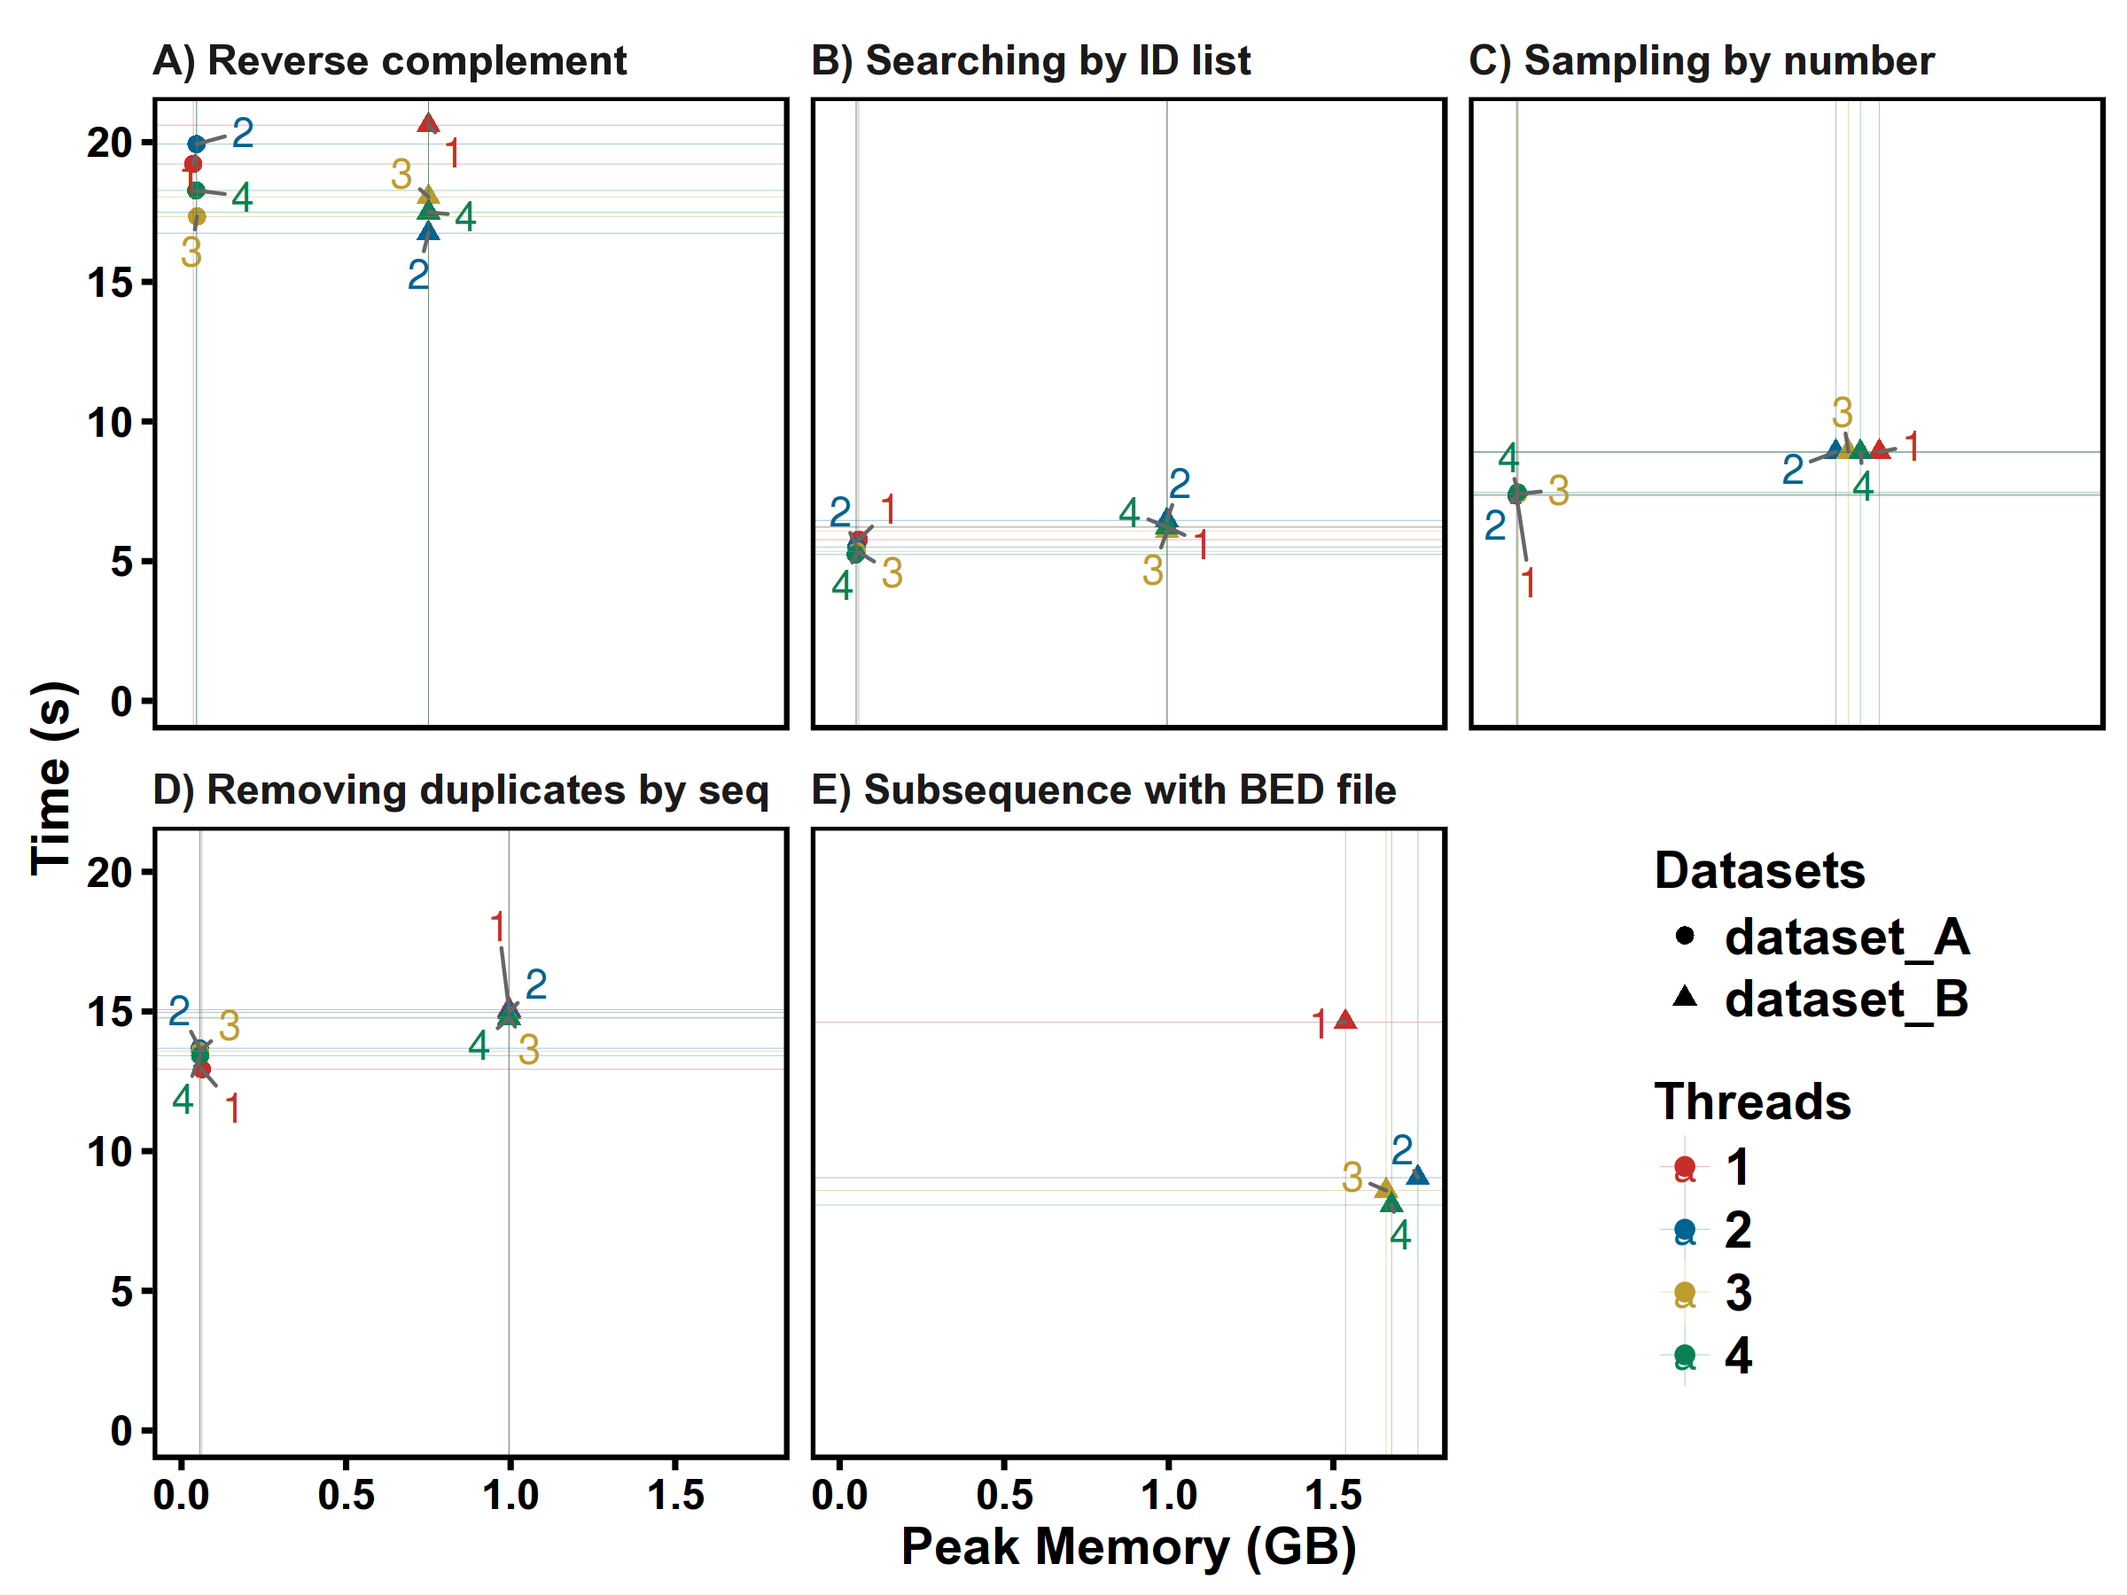
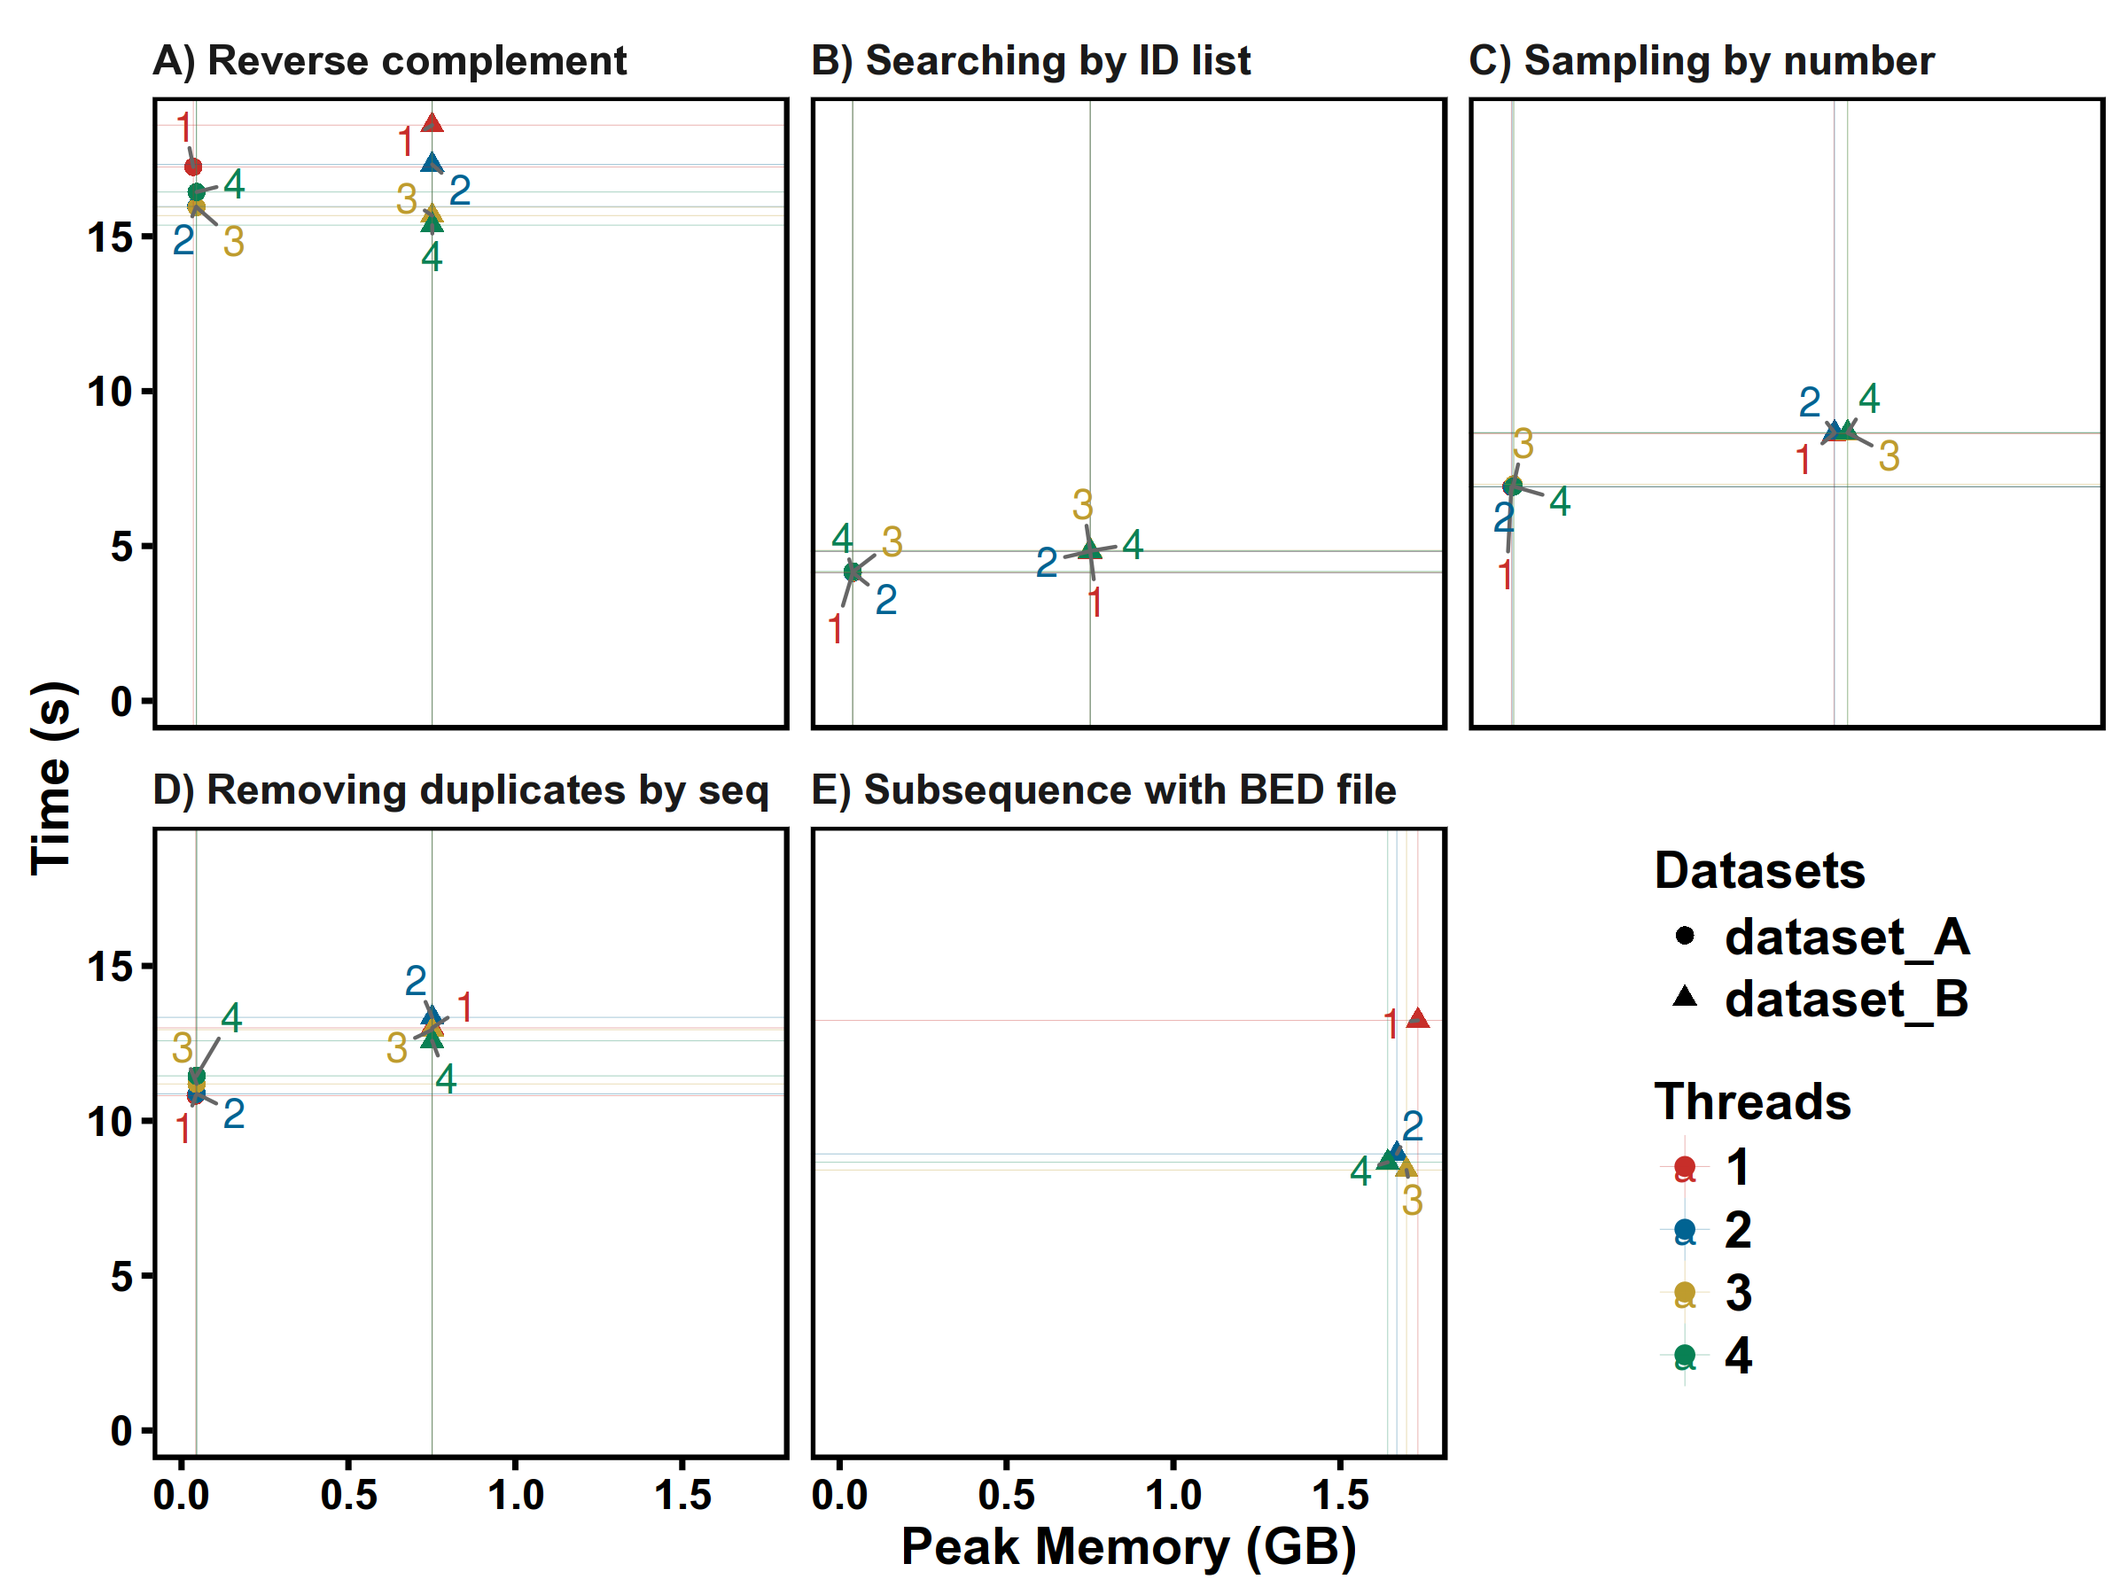
v0.2.8

diff --git a/usage/index.html b/usage/index.html
@@ -179,31 +179,18 @@
 <h1 id="usage-and-examples">Usage and Examples</h1>
 <h2 id="technical-details-and-guides-for-use">Technical details and guides for use</h2>
 <h3 id="fastaq-format-parsing">FASTA/Q format parsing</h3>
-<p>fakit uses author's bioinformatics packages <a href="https://github.com/shenwei356/bio">bio</a>
-for FASTA/Q parsing, which <strong><em>asynchronously parse FASTA/Q records and buffer them
-in chunks</em></strong>. The parser returns one chunk of records for each call.</p>
-<p>Asynchronous parsing saves much time because these's no waiting interval for
-parsed records being handled.
-The strategy of records chunks reduces data exchange in parallelly handling
-of sequences, which could also improve performance.</p>
-<p>Since using of buffers and chunks, the memory occupation will be higher than
-cases of reading sequence one by one.
-The default value of chunk size (configurable by global flag <code>-c</code> or <code>--chunk-size</code>)
-is 1, which is suitable for most of cases.
-But for manipulating short sequences, e.g. FASTQ or FASTA of short sequences,
-you could set higher value, e.g. 100.
-For big genomes like human genome, smaller chunk size is prefered, e.g. 1.
-And the buffer size is configurable by global flag <code>-b</code> or <code>--buffer-size</code>
-(default value is 1). You may set with higher
-value for short sequences to imporve performance.</p>
+<p>fakit uses author's lightweight and high-performance bioinformatics packages
+<a href="https://github.com/shenwei356/bio">bio</a> for FASTA/Q parsing，
+which has <a href="https://github.com/shenwei356/bio#compare-to-kseqh-klib">high performance</a>
+close to the
+famous C lib <a href="https://github.com/attractivechaos/klib/blob/master/kseq.h">kseq.h</a>.</p>
 <h3 id="sequence-formats-and-types">Sequence formats and types</h3>
 <p>fakit seamlessly support FASTA and FASTQ format.
 All subcommands except for <code>faidx</code> can handle both formats.
 And only when some commands (<code>subseq</code>, <code>split</code>, <code>sort</code> and <code>shuffle</code>)
 which utilise FASTA index to improve perfrmance for large files in two pass mode
 (by flag <code>--two-pass</code>), only FASTA format is supported.</p>
-<p>Sequence format is automatically detected by the first character of the file
-or STDIN.</p>
+<p>Sequence format is automatically detected.</p>
 <p>Sequence type (DNA/RNA/Protein) is automatically detected by leading subsequences
 of the first sequences in file or STDIN. The length of the leading subsequences
 is configurable by global flag <code>--alphabet-guess-seq-length</code> with default value
@@ -243,27 +230,21 @@ the <code>gi</code> number, then use <code>--id-regexp "^gi\|([^\|]+)\|"</code>.
 <p>For some commands, including <code>subseq</code>, <code>split</code>, <code>sort</code> and <code>shuffle</code>,
 when input files are (plain or gzipped) FASTA files,
 FASTA index would be optional used for
-rapid acccess of sequences and reducing memory occupation.</p>
+rapid access of sequences and reducing memory occupation.</p>
 <p>ATTENTION: the <code>.fakit.fai</code> file created by fakit is a little different from .fai file
 created by samtools. fakit uses full sequence head instead of just ID as key.</p>
 <h3 id="parallelization-of-cpu-intensive-jobs">Parallelization of CPU intensive jobs</h3>
-<p>Most of the manipulations of FASTA/Q files are I/O intensive, to improve the
-performance, asynchronous parsing strategy is used.</p>
 <p>The validation of sequences bases and complement process of sequences
 are parallelized for large sequences.</p>
-<p>For CPU intensive jobs like <code>grep</code> with regular expressions and <code>locate</code> with
-sequence motifs. The processes are parallelized
-with "Map-Reduce" model by multiple goroutines in golang which are similar to but much
+<p>Parsing of line-based files, including BED/GFF file and ID list file are also parallelized.</p>
+<p>The Parallelization is implemented by multiple goroutines in golang
+ which are similar to but much
 lighter weight than threads. The concurrency number is configurable with global
 flag <code>-j</code> or <code>--threads</code> (default value: 1 for single-CPU PC, 2 for others).</p>
 <h3 id="memory-occupation">Memory occupation</h3>
 <p>Most of the subcommands do not read whole FASTA/Q records in to memory,
 including <code>stat</code>, <code>fq2fa</code>, <code>fx2tab</code>, <code>tab2fx</code>, <code>grep</code>, <code>locate</code>, <code>replace</code>,
- <code>seq</code>, <code>sliding</code>, <code>subseq</code>. They just temporarily buffer chunks of records.</p>
-<p>However when handling big sequences, e.g. Human genome, the memory is high
- (2-3 GB) even the buffer size is 1.
- This is due to the limitation of garbage collection mechanism in
-  Go programming language, it may be solved in the future.</p>
+ <code>seq</code>, <code>sliding</code>, <code>subseq</code>.</p>
 <p>Note that when using <code>subseq --gtf | --bed</code>, if the GTF/BED files are too
 big, the memory usage will increase.
 You could use <code>--chr</code> to specify chromesomes and <code>--feature</code> to limit features.</p>
@@ -282,7 +263,7 @@ reproduced in different environments with same random seed.</p>
 <p>Usage</p>
 <pre><code>fakit -- a cross-platform and efficient toolkit for FASTA/Q file manipulation
 
-Version: 0.2.7
+Version: 0.2.8
 
 Author: Wei Shen &lt;shenwei356@gmail.com&gt;
 
@@ -1173,16 +1154,15 @@ Flags:
 <ol>
 <li>
 <p>FASTA</p>
-<p>$ fakit head -n 1 hairpin.fa.gz</p>
-<blockquote>
-<p>cel-let-7 MI0000001 Caenorhabditis elegans let-7 stem-loop
+<pre><code>$ fakit head -n 1 hairpin.fa.gz
+&gt;cel-let-7 MI0000001 Caenorhabditis elegans let-7 stem-loop
 UACACUGUGGAUCCGGUGAGGUAGUAGGUUGUAUAGUUUGGAAUAUUACCACCGGUGAAC
-UAUGCAAUUUUCUACCUUACCGGAGACAGAACUCUUCGA</p>
-</blockquote>
+UAUGCAAUUUUCUACCUUACCGGAGACAGAACUCUUCGA
+</code></pre>
 </li>
 <li>
 <p>FASTQ</p>
-<p>$ fakit head -n 1 reads_1.fq.gz
+<pre><code>$ fakit head -n 1 reads_1.fq.gz
 @HWI-D00523:240:HF3WGBCXX:1:1101:2574:2226 1:N:0:CTGTAG
 TGAGGAATATTGGTCAATGGGCGCGAGCCTGAACCAGCCAAGTAGCGTGAAGGATGACTG
 CCCTACGGGTTGTAAACTTCTTTTATAAAGGAATAAAGTGAGGCACGTGTGCCTTTTTGT
@@ -1192,7 +1172,8 @@ TCCGAGCGTTATCCGGATTTATTGGGTTTAAAGGGTGCGCAGGCGGT
 HIHIIIIIHIIHGHHIHHIIIIIIIIIIIIIIIHHIIIIIHHIHIIIIIGIHIIIIHHHH
 HHGHIHIIIIIIIIIIIGHIIIIIGHIIIIHIIHIHHIIIIHIHHIIIIIIIGIIIIIII
 HIIIIIGHIIIIHIIIH?DGHEEGHIIIIIIIIIIIHIIHIIIHHIIHIHHIHCHHIIHG
-IHHHHHHH&lt;GG?B@EHDE-BEHHHII5B@GHHF?CGEHHHDHIHIIH</p>
+IHHHHHHH&lt;GG?B@EHDE-BEHHHII5B@GHHF?CGEHHHDHIHIIH
+</code></pre>
 </li>
 </ol>
 <h2 id="replace">replace</h2>

diff --git a/download/index.html b/download/index.html
@@ -151,34 +151,34 @@
  executable binary files <strong>for most popular operating system</strong> are freely available
   in <a href="https://github.com/shenwei356/fakit/releases">release</a> page.</p>
 <h2 id="latest-version">Latest Version</h2>
-<p><a href="https://github.com/shenwei356/fakit/releases/tag/v0.2.7">fakit v0.2.7</a></p>
+<p><a href="https://github.com/shenwei356/fakit/releases/tag/v0.2.8">fakit v0.2.8</a></p>
 <h4 id="links">Links</h4>
 <ul>
 <li><strong>Linux</strong><ul>
-<li><a href="https://github.com/shenwei356/fakit/releases/download/v0.2.7/fakit_linux_386.tar.gz">fakit_linux_386.tar.gz</a></li>
-<li><a href="https://github.com/shenwei356/fakit/releases/download/v0.2.7/fakit_linux_amd64.tar.gz">fakit_linux_amd64.tar.gz</a></li>
-<li><a href="https://github.com/shenwei356/fakit/releases/download/v0.2.7/fakit_linux_arm.tar.gz">fakit_linux_arm.tar.gz</a></li>
+<li><a href="https://github.com/shenwei356/fakit/releases/download/v0.2.8/fakit_linux_386.tar.gz">fakit_linux_386.tar.gz</a></li>
+<li><a href="https://github.com/shenwei356/fakit/releases/download/v0.2.8/fakit_linux_amd64.tar.gz">fakit_linux_amd64.tar.gz</a></li>
+<li><a href="https://github.com/shenwei356/fakit/releases/download/v0.2.8/fakit_linux_arm.tar.gz">fakit_linux_arm.tar.gz</a></li>
 </ul>
 </li>
 <li><strong>Mac OS X</strong><ul>
-<li><a href="https://github.com/shenwei356/fakit/releases/download/v0.2.7/fakit_darwin_386.tar.gz">fakit_darwin_386.tar.gz</a></li>
-<li><a href="https://github.com/shenwei356/fakit/releases/download/v0.2.7/fakit_darwin_amd64.tar.gz">fakit_darwin_amd64.tar.gz</a></li>
+<li><a href="https://github.com/shenwei356/fakit/releases/download/v0.2.8/fakit_darwin_386.tar.gz">fakit_darwin_386.tar.gz</a></li>
+<li><a href="https://github.com/shenwei356/fakit/releases/download/v0.2.8/fakit_darwin_amd64.tar.gz">fakit_darwin_amd64.tar.gz</a></li>
 </ul>
 </li>
 <li><strong>Windows</strong><ul>
-<li><a href="https://github.com/shenwei356/fakit/releases/download/v0.2.7/fakit_windows_386.exe.tar.gz">fakit_windows_386.exe.tar.gz</a></li>
-<li><a href="https://github.com/shenwei356/fakit/releases/download/v0.2.7/fakit_windows_amd64.exe.tar.gz">fakit_windows_amd64.exe.tar.gz</a></li>
+<li><a href="https://github.com/shenwei356/fakit/releases/download/v0.2.8/fakit_windows_386.exe.tar.gz">fakit_windows_386.exe.tar.gz</a></li>
+<li><a href="https://github.com/shenwei356/fakit/releases/download/v0.2.8/fakit_windows_amd64.exe.tar.gz">fakit_windows_amd64.exe.tar.gz</a></li>
 </ul>
 </li>
 <li><strong>FreeBSD</strong><ul>
-<li><a href="https://github.com/shenwei356/fakit/releases/download/v0.2.7/fakit_freebsd_386.tar.gz">fakit_freebsd_386.tar.gz</a></li>
-<li><a href="https://github.com/shenwei356/fakit/releases/download/v0.2.7/fakit_freebsd_amd64.tar.gz">fakit_freebsd_amd64.tar.gz</a></li>
-<li><a href="https://github.com/shenwei356/fakit/releases/download/v0.2.7/fakit_freebsd_arm.tar.gz">fakit_freebsd_arm.tar.gz</a></li>
+<li><a href="https://github.com/shenwei356/fakit/releases/download/v0.2.8/fakit_freebsd_386.tar.gz">fakit_freebsd_386.tar.gz</a></li>
+<li><a href="https://github.com/shenwei356/fakit/releases/download/v0.2.8/fakit_freebsd_amd64.tar.gz">fakit_freebsd_amd64.tar.gz</a></li>
+<li><a href="https://github.com/shenwei356/fakit/releases/download/v0.2.8/fakit_freebsd_arm.tar.gz">fakit_freebsd_arm.tar.gz</a></li>
 </ul>
 </li>
 <li><strong>OpenBSD</strong><ul>
-<li><a href="https://github.com/shenwei356/fakit/releases/download/v0.2.7/fakit_openbsd_386.tar.gz">fakit_openbsd_386.tar.gz</a></li>
-<li><a href="https://github.com/shenwei356/fakit/releases/download/v0.2.7/fakit_openbsd_amd64.tar.gz">fakit_openbsd_amd64.tar.gz</a></li>
+<li><a href="https://github.com/shenwei356/fakit/releases/download/v0.2.8/fakit_openbsd_386.tar.gz">fakit_openbsd_386.tar.gz</a></li>
+<li><a href="https://github.com/shenwei356/fakit/releases/download/v0.2.8/fakit_openbsd_amd64.tar.gz">fakit_openbsd_amd64.tar.gz</a></li>
 </ul>
 </li>
 </ul>
@@ -234,6 +234,13 @@ echo export PATH=\$PATH:/PATH/OF/fakit &gt;&gt; ~/.bashrc
 </code></pre>
 <h2 id="release-history">Release History</h2>
 <ul>
+<li><a href="https://github.com/shenwei356/fakit/releases/tag/v0.2.8">fakit v0.2.8</a><ul>
+<li>improve speed of parsing sequence ID, not using regular expression for default <code>--id-regexp</code></li>
+<li>improve speed of record outputing for small-size sequences</li>
+<li>fix minor bug: <code>fakit seq</code> for blank record</li>
+<li>update benchmark result</li>
+</ul>
+</li>
 <li><a href="https://github.com/shenwei356/fakit/releases/tag/v0.2.7">fakit v0.2.7</a><ul>
 <li><strong><em>reduce memory usage</em></strong> by optimize the outputing of sequences.
   detail: using <a href="https://godoc.org/github.com/shenwei356/util/byteutil#BufferedByteSliceWrapper"><code>BufferedByteSliceWrapper</code></a> to resuse bytes.Buffer.</li>

diff --git a/index.html b/index.html
@@ -504,8 +504,9 @@ echo export PATH=\$PATH:/PATH/OF/fakit &gt;&gt; ~/.bashrc
 <h3 id="fastaq-format-parsing">FASTA/Q format parsing</h3>
 <p>fakit uses author's lightweight and high-performance bioinformatics packages
 <a href="https://github.com/shenwei356/bio">bio</a> for FASTA/Q parsing，
- which has very close performance (<strong><em>0.89X</em></strong>) compared to the
-  famous C lib <a href="https://github.com/attractivechaos/klib/blob/master/kseq.h">kseq.h</a>.</p>
+which has <a href="https://github.com/shenwei356/bio#compare-to-kseqh-klib">high performance</a>
+close to the
+famous C lib <a href="https://github.com/attractivechaos/klib/blob/master/kseq.h">kseq.h</a>.</p>
 <h3 id="sequence-formats-and-types">Sequence formats and types</h3>
 <p>fakit seamlessly support FASTA and FASTQ format.
 All subcommands except for <code>faidx</code> can handle both formats.
@@ -592,7 +593,7 @@ file           seq_format   seq_type   num_seqs   min_len        avg_len       m
 dataset_A.fa   FASTA        DNA          67,748        56       41,442.5     5,976,145                  
 dataset_B.fa   FASTA        DNA             194       970   15,978,096.5   248,956,422
 </code></pre>
-<p>fakit version: v0.2.7</p>
+<p>fakit version: v0.2.8</p>
 <p><img alt="benchmark-5tests.csv.png" src="./benchmark/benchmark.5tests.csv.png" /></p>
 <h2 id="citation">Citation</h2>
 <p><strong>W Shen</strong>, S Le, Y Li*, F Hu*. fakit: a cross-platform and efficient toolkit for FASTA/Q file manipulation.
@@ -649,5 +650,5 @@ propose new functions or ask for help.</p>
 
 <!--
 MkDocs version : 0.15.3
-Build Date UTC : 2016-07-18 07:42:54.818244
+Build Date UTC : 2016-07-19 09:16:04.695215
 -->

diff --git a/benchmark/index.html b/benchmark/index.html
@@ -156,7 +156,7 @@
 <h2 id="softwares">Softwares</h2>
 <ol>
 <li><a href="https://github.com/shenwei356/fakit">fakit</a>. (Go).
-   Version <a href="https://github.com/shenwei356/fakit/releases/tag/v0.2.7">v0.2.7</a>.</li>
+   Version <a href="https://github.com/shenwei356/fakit/releases/tag/v0.2.8">v0.2.8</a>.</li>
 <li><a href="https://github.com/jimhester/fasta_utilities">fasta_utilities</a>. (Perl).
    Version <a href="https://github.com/jimhester/fasta_utilities/tree/3dcc0bc6bf1e97839476221c26984b1789482579">3dcc0bc</a>.
    Lots of dependencies to install.</li>
@@ -480,7 +480,7 @@ the peak memory may depends on size of sampled sequences.</p>
 <h3 id="test-5-subsequence-with-bed-file">Test 5. Subsequence with BED file</h3>
 <p><a href="https://github.com/shenwei356/fakit/blob/master/benchmark/run_benchmark_05_subseq_with_bed.sh">Commands</a></p>
 <h2 id="results">Results</h2>
-<p>fakit version: v0.2.7</p>
+<p>fakit version: v0.2.8</p>
 <p><img alt="benchmark-5tests.csv.png" src="../benchmark/benchmark.5tests.csv.png" /></p>
 <h3 id="test-of-multiple-threads">Test of multiple threads:</h3>
 <p>From the results, 2 threads/CPU is enough, so the default threads of fakit is 2.</p>
